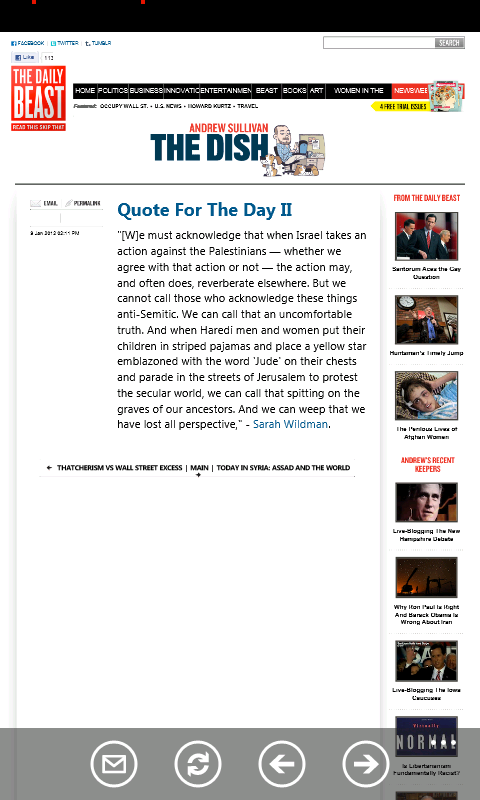
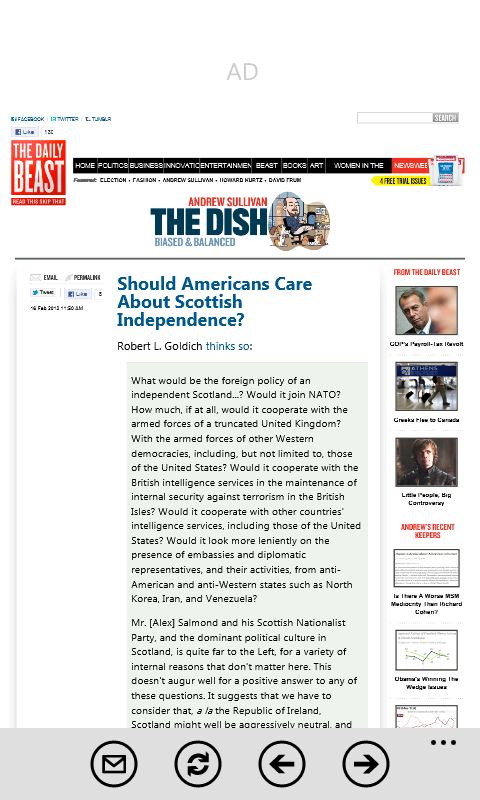
major theme update

diff --git a/DishReaderApp/MainPage.xaml b/DishReaderApp/MainPage.xaml
@@ -8,7 +8,7 @@
     xmlns:shell="clr-namespace:Microsoft.Phone.Shell;assembly=Microsoft.Phone"
     xmlns:d="http://schemas.microsoft.com/expression/blend/2008"
     xmlns:mc="http://schemas.openxmlformats.org/markup-compatibility/2006"
-    mc:Ignorable="d" d:DesignWidth="480" d:DesignHeight="768"
+    mc:Ignorable="d" d:DesignWidth="480" d:DesignHeight="696"
     SupportedOrientations="PortraitOrLandscape" Orientation="Portrait"
     shell:SystemTray.IsVisible="True"
     Style="{StaticResource TransitionPageStyle}"
@@ -19,18 +19,16 @@
     <Grid x:Name="LayoutRoot" Background="Transparent">
         <Grid.RowDefinitions>
             <RowDefinition Height="Auto"/>
-            <RowDefinition Height="Auto"/>
             <RowDefinition Height="*"/>
+            <RowDefinition Height="Auto"/>
         </Grid.RowDefinitions>
 
-        <my:AdControl Grid.Row="0" x:Name="AdBox" AdUnitId="79784" ApplicationId="bbb9b56b-6a13-4ef6-8308-f5fb22d2ab77" Margin="0" Width="480" Height="80" Style="{StaticResource AdControlStyle1}"/>
-
         <!--TitlePanel contains the name of the application and page title-->
-        <StackPanel x:Name="TitlePanel" Grid.Row="1" Margin="12,12,0,12">
-            <TextBlock x:Name="ApplicationTitle" Text="{Binding Source={StaticResource Strings}, Path=Resources.AppTitleCapitalized}" Style="{StaticResource AppTitleStyle}"/>
+        <StackPanel x:Name="TitlePanel" Grid.Row="0" Margin="12,17,0,6">
+            <TextBlock x:Name="ApplicationTitle" Text="{Binding Source={StaticResource Strings}, Path=Resources.AppTitleCapitalized}" Style="{StaticResource AppTitleStyle}" FontFamily="/DishReaderApp;component/Fonts/Fonts.zip#HelveticaInserat-Roman-SemiBold" FontSize="26.667" FontWeight="Normal"/>
         </StackPanel>
 
-        <ListBox x:Name="MainListBox" Grid.Row="2" Margin="12,0,0,0" ItemsSource="{Binding AllFeedItems}" SelectionChanged="ListBox_SelectionChanged" Style="{StaticResource ListBoxContrastStyle}">
+        <ListBox x:Name="MainListBox" Grid.Row="1" Margin="12,0,0,0" ItemsSource="{Binding AllFeedItems}" SelectionChanged="ListBox_SelectionChanged" Style="{StaticResource ListBoxContrastStyle}">
             <ListBox.ItemTemplate>
                 <DataTemplate>
                     <StackPanel Margin="0,0,0,17">
@@ -41,10 +39,13 @@
                 </DataTemplate>
             </ListBox.ItemTemplate>
         </ListBox>
+
+        <!--<Image Grid.Row="2" Source="/Images/ad.png"/>-->
+        <my:AdControl Grid.Row="2" x:Name="AdBox" AdUnitId="79784" ApplicationId="bbb9b56b-6a13-4ef6-8308-f5fb22d2ab77" Margin="0" Width="480" Height="80" Style="{StaticResource AdControlStyle1}"/>
     </Grid>
  
     <phone:PhoneApplicationPage.ApplicationBar>
-        <shell:ApplicationBar IsVisible="True" IsMenuEnabled="True" Opacity="0.65" Mode="Minimized">
+        <shell:ApplicationBar IsVisible="True" IsMenuEnabled="True">
             <shell:ApplicationBarIconButton x:Name="RefreshButton" IconUri="Images/appbar.refresh.rest.png" Text="refresh" Click="RefreshButton_Click" />
             <shell:ApplicationBar.MenuItems>
                 <shell:ApplicationBarMenuItem x:Name="AboutMenuItem" Text="about" Click="AboutMenuItem_Click" />

diff --git a/DishReaderApp/DetailsPage.xaml b/DishReaderApp/DetailsPage.xaml
@@ -10,7 +10,7 @@
     x:Class="DishReaderApp.DetailsPage"
     SupportedOrientations="PortraitOrLandscape" Orientation="Portrait"
     shell:SystemTray.IsVisible="True"
-    d:DesignHeight="768" d:DesignWidth="480"
+    d:DesignHeight="696" d:DesignWidth="480"
     mc:Ignorable="d"
     OrientationChanged="PhoneApplicationPage_OrientationChanged"
     Loaded="PhoneApplicationPage_Loaded">
@@ -22,12 +22,13 @@
             <RowDefinition Height="*"/>
         </Grid.RowDefinitions>
 
+        <!--<Image Grid.Row="0" Source="/Images/ad.png"/>-->
         <my:AdControl Grid.Row="0" x:Name="AdBox" AdUnitId="79784" ApplicationId="bbb9b56b-6a13-4ef6-8308-f5fb22d2ab77" Margin="0" Width="480" Height="80" Style="{StaticResource AdControlStyle1}"/>
         <phone:WebBrowser Grid.Row="1" x:Name="webBrowser1" IsScriptEnabled="True" Margin="0" />
     </Grid>
 
     <phone:PhoneApplicationPage.ApplicationBar>
-        <shell:ApplicationBar IsVisible="True" IsMenuEnabled="True" Opacity="0.65">
+        <shell:ApplicationBar IsVisible="True" IsMenuEnabled="True">
             <shell:ApplicationBarIconButton x:Name="buttonEmail" IconUri="Images/appbar.feature.email.rest.png" Text="email" Click="buttonEmail_Click" />
             <shell:ApplicationBarIconButton x:Name="buttonRefresh" IconUri="Images/appbar.refresh.rest.png" Text="refresh" Click="buttonRefresh_Click" />
             <shell:ApplicationBarIconButton x:Name="buttonPrevious" IconUri="Images/appbar.back.rest.png" Text="previous" Click="buttonPrevious_Click" />

diff --git a/DishReaderApp/Resources/CustomTheme.xaml b/DishReaderApp/Resources/CustomTheme.xaml
@@ -1,5 +1,5 @@
 <ResourceDictionary xmlns="http://schemas.microsoft.com/winfx/2006/xaml/presentation" xmlns:x="http://schemas.microsoft.com/winfx/2006/xaml">
-    <SolidColorBrush x:Key="AppTitleColor" Color="#EB3C2E" />
+    <SolidColorBrush x:Key="AppTitleColor" Color="#003855" />
     <SolidColorBrush x:Key="PageTitleColor" Color="#003855" />
     <SolidColorBrush x:Key="HeaderColor" Color="#00598C" />
     <SolidColorBrush x:Key="DefaultBackgroundColor" Color="White" />

diff --git a/DishReaderApp/App.xaml.cs b/DishReaderApp/App.xaml.cs
@@ -57,13 +57,15 @@ namespace DishReaderApp
             // Phone-specific initialization
             InitializePhoneApplication();
 
+            ThemeManager.ToLightTheme();
+
             // Show graphics profiling information while debugging.
             if (System.Diagnostics.Debugger.IsAttached)
             {
                 // Display the current frame rate counters.
-                Application.Current.Host.Settings.EnableFrameRateCounter = true;
+                Application.Current.Host.Settings.EnableFrameRateCounter = false;
 
-                MetroGridHelper.IsVisible = true;
+                MetroGridHelper.IsVisible = false;
 
                 // Show the areas of the app that are being redrawn in each frame.
                 //Application.Current.Host.Settings.EnableRedrawRegions = true;

diff --git a/DishReaderApp/MainPage.xaml.cs b/DishReaderApp/MainPage.xaml.cs
@@ -52,10 +52,6 @@ namespace DishReaderApp
                 return;
             }
 
-            // item should not be highlighted anymore
-            var item = (FeedItemViewModel)MainListBox.Items[MainListBox.SelectedIndex];
-            item.IsNew = false;
-
             // navigate to the new page
             NavigationService.Navigate(new Uri("/DetailsPage.xaml?selectedItem=" + MainListBox.SelectedIndex, UriKind.Relative));
 
